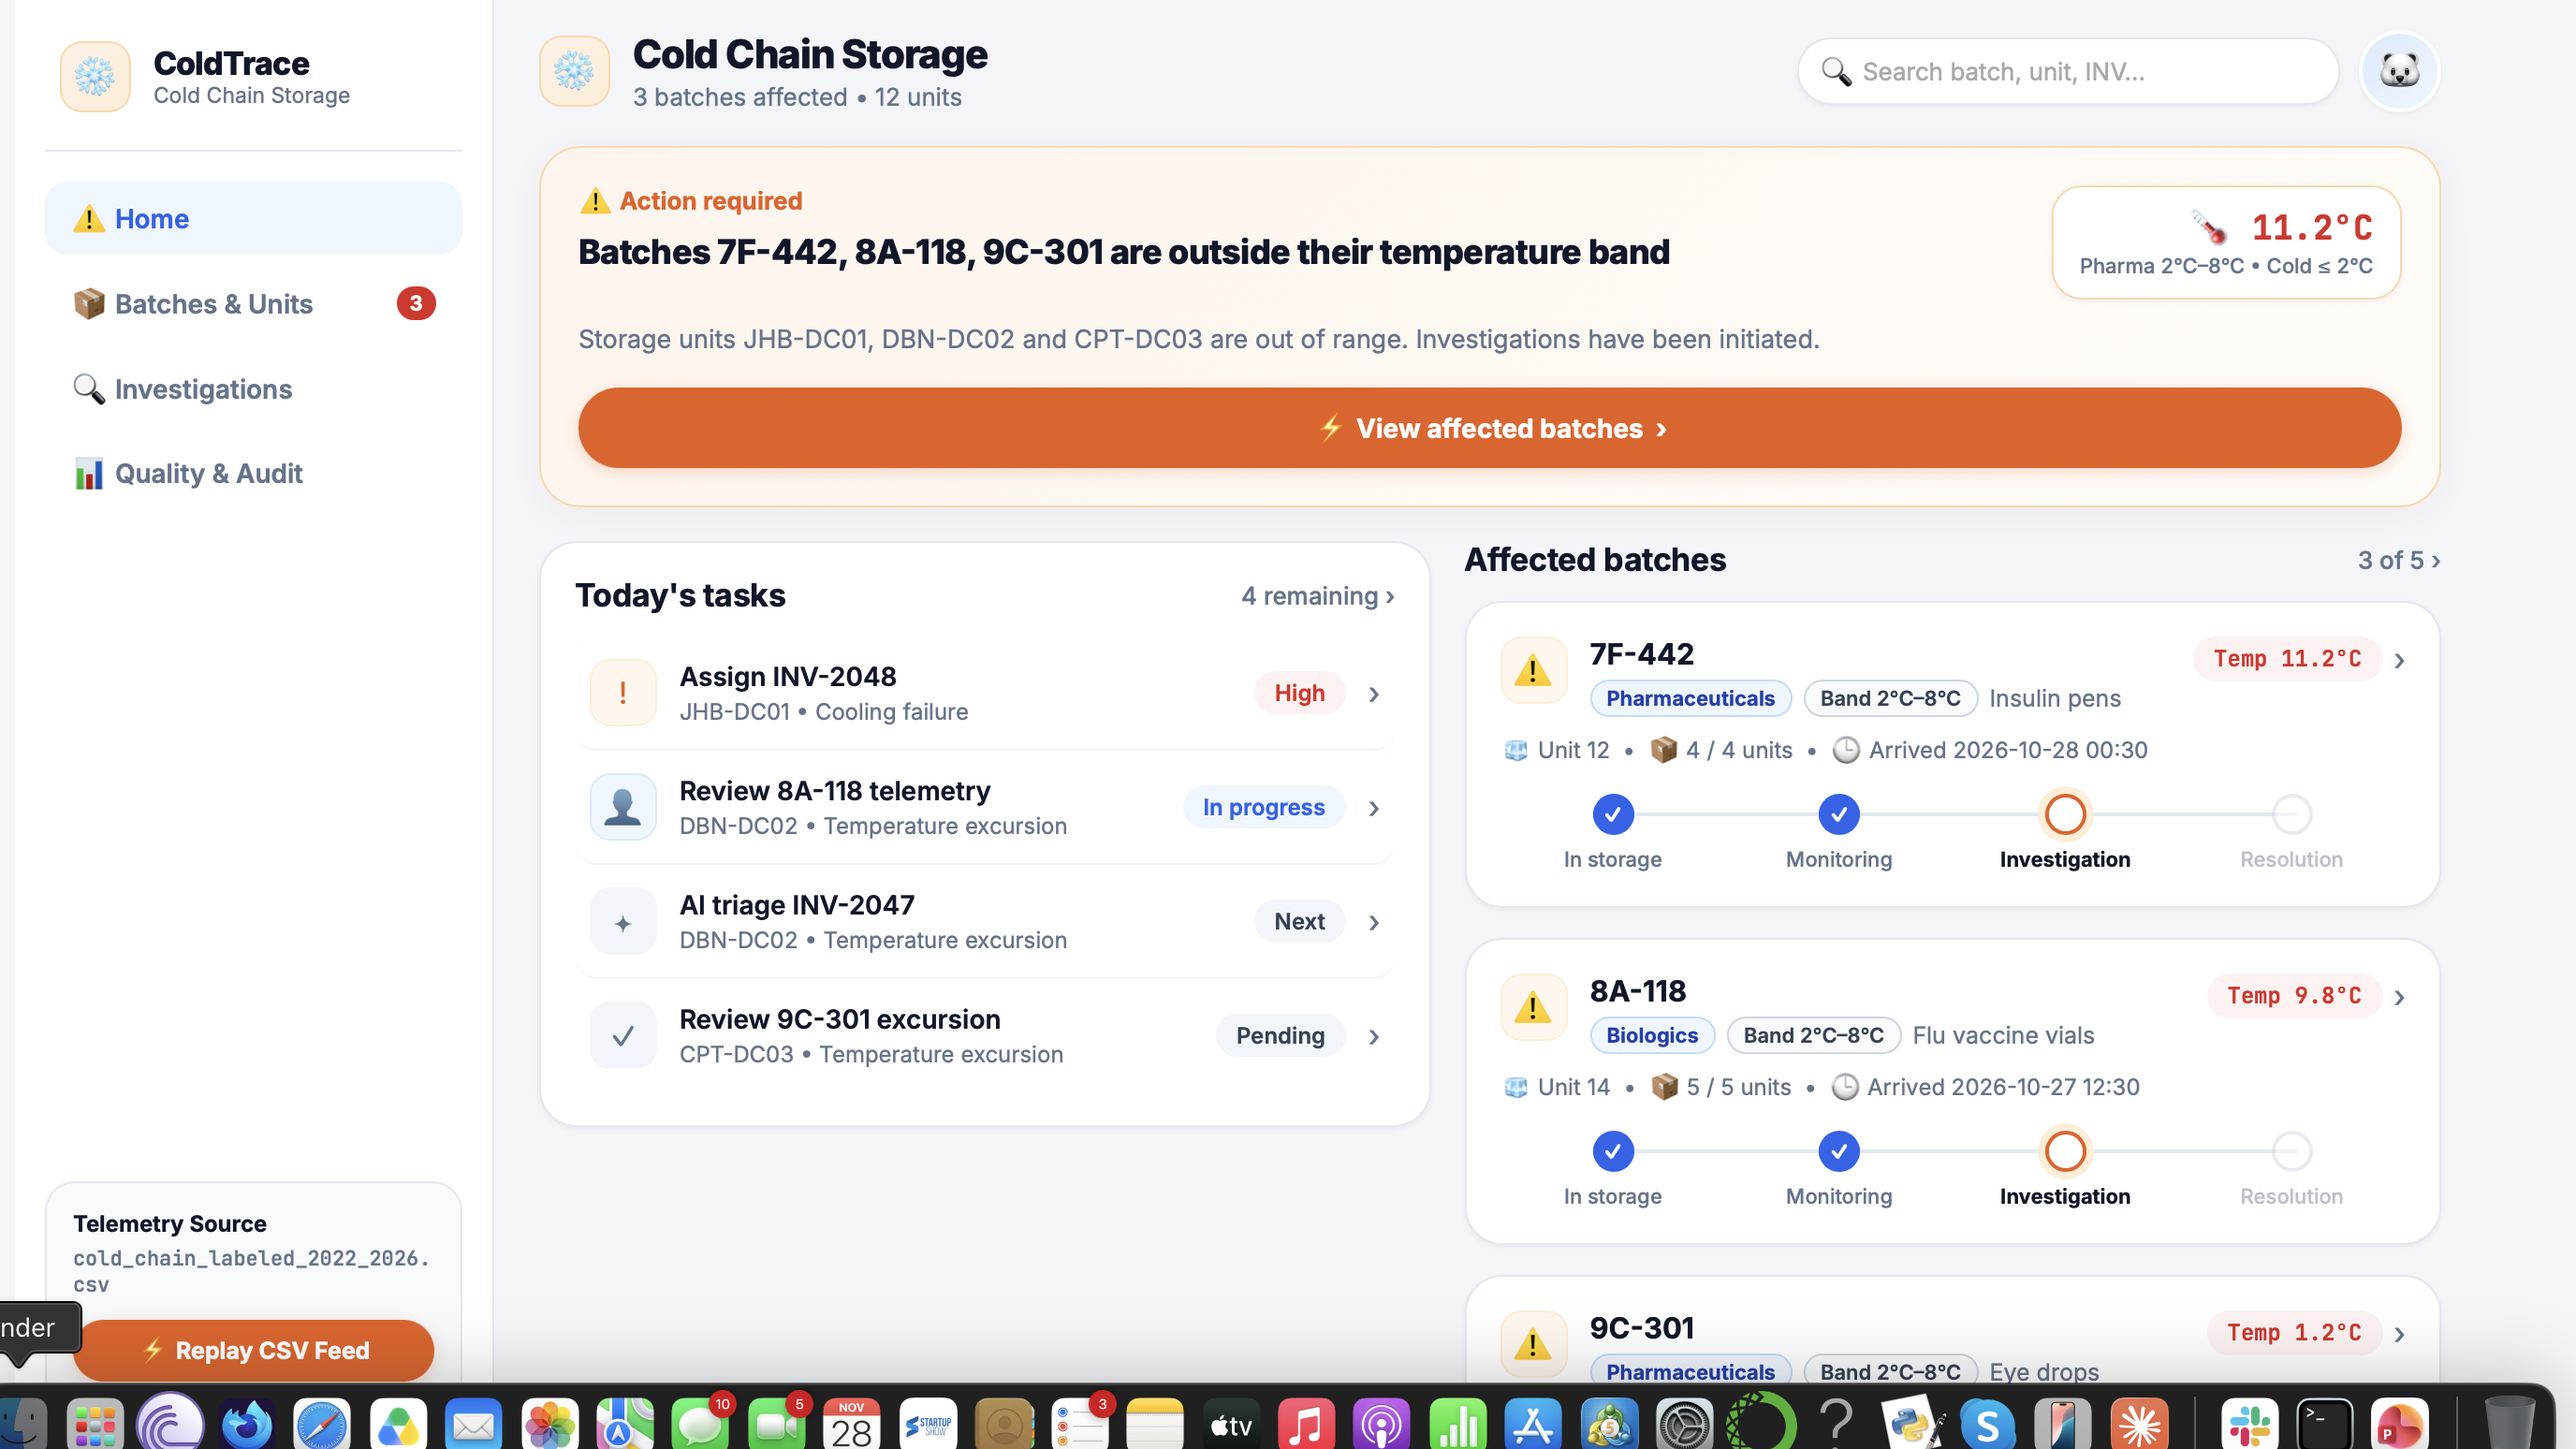
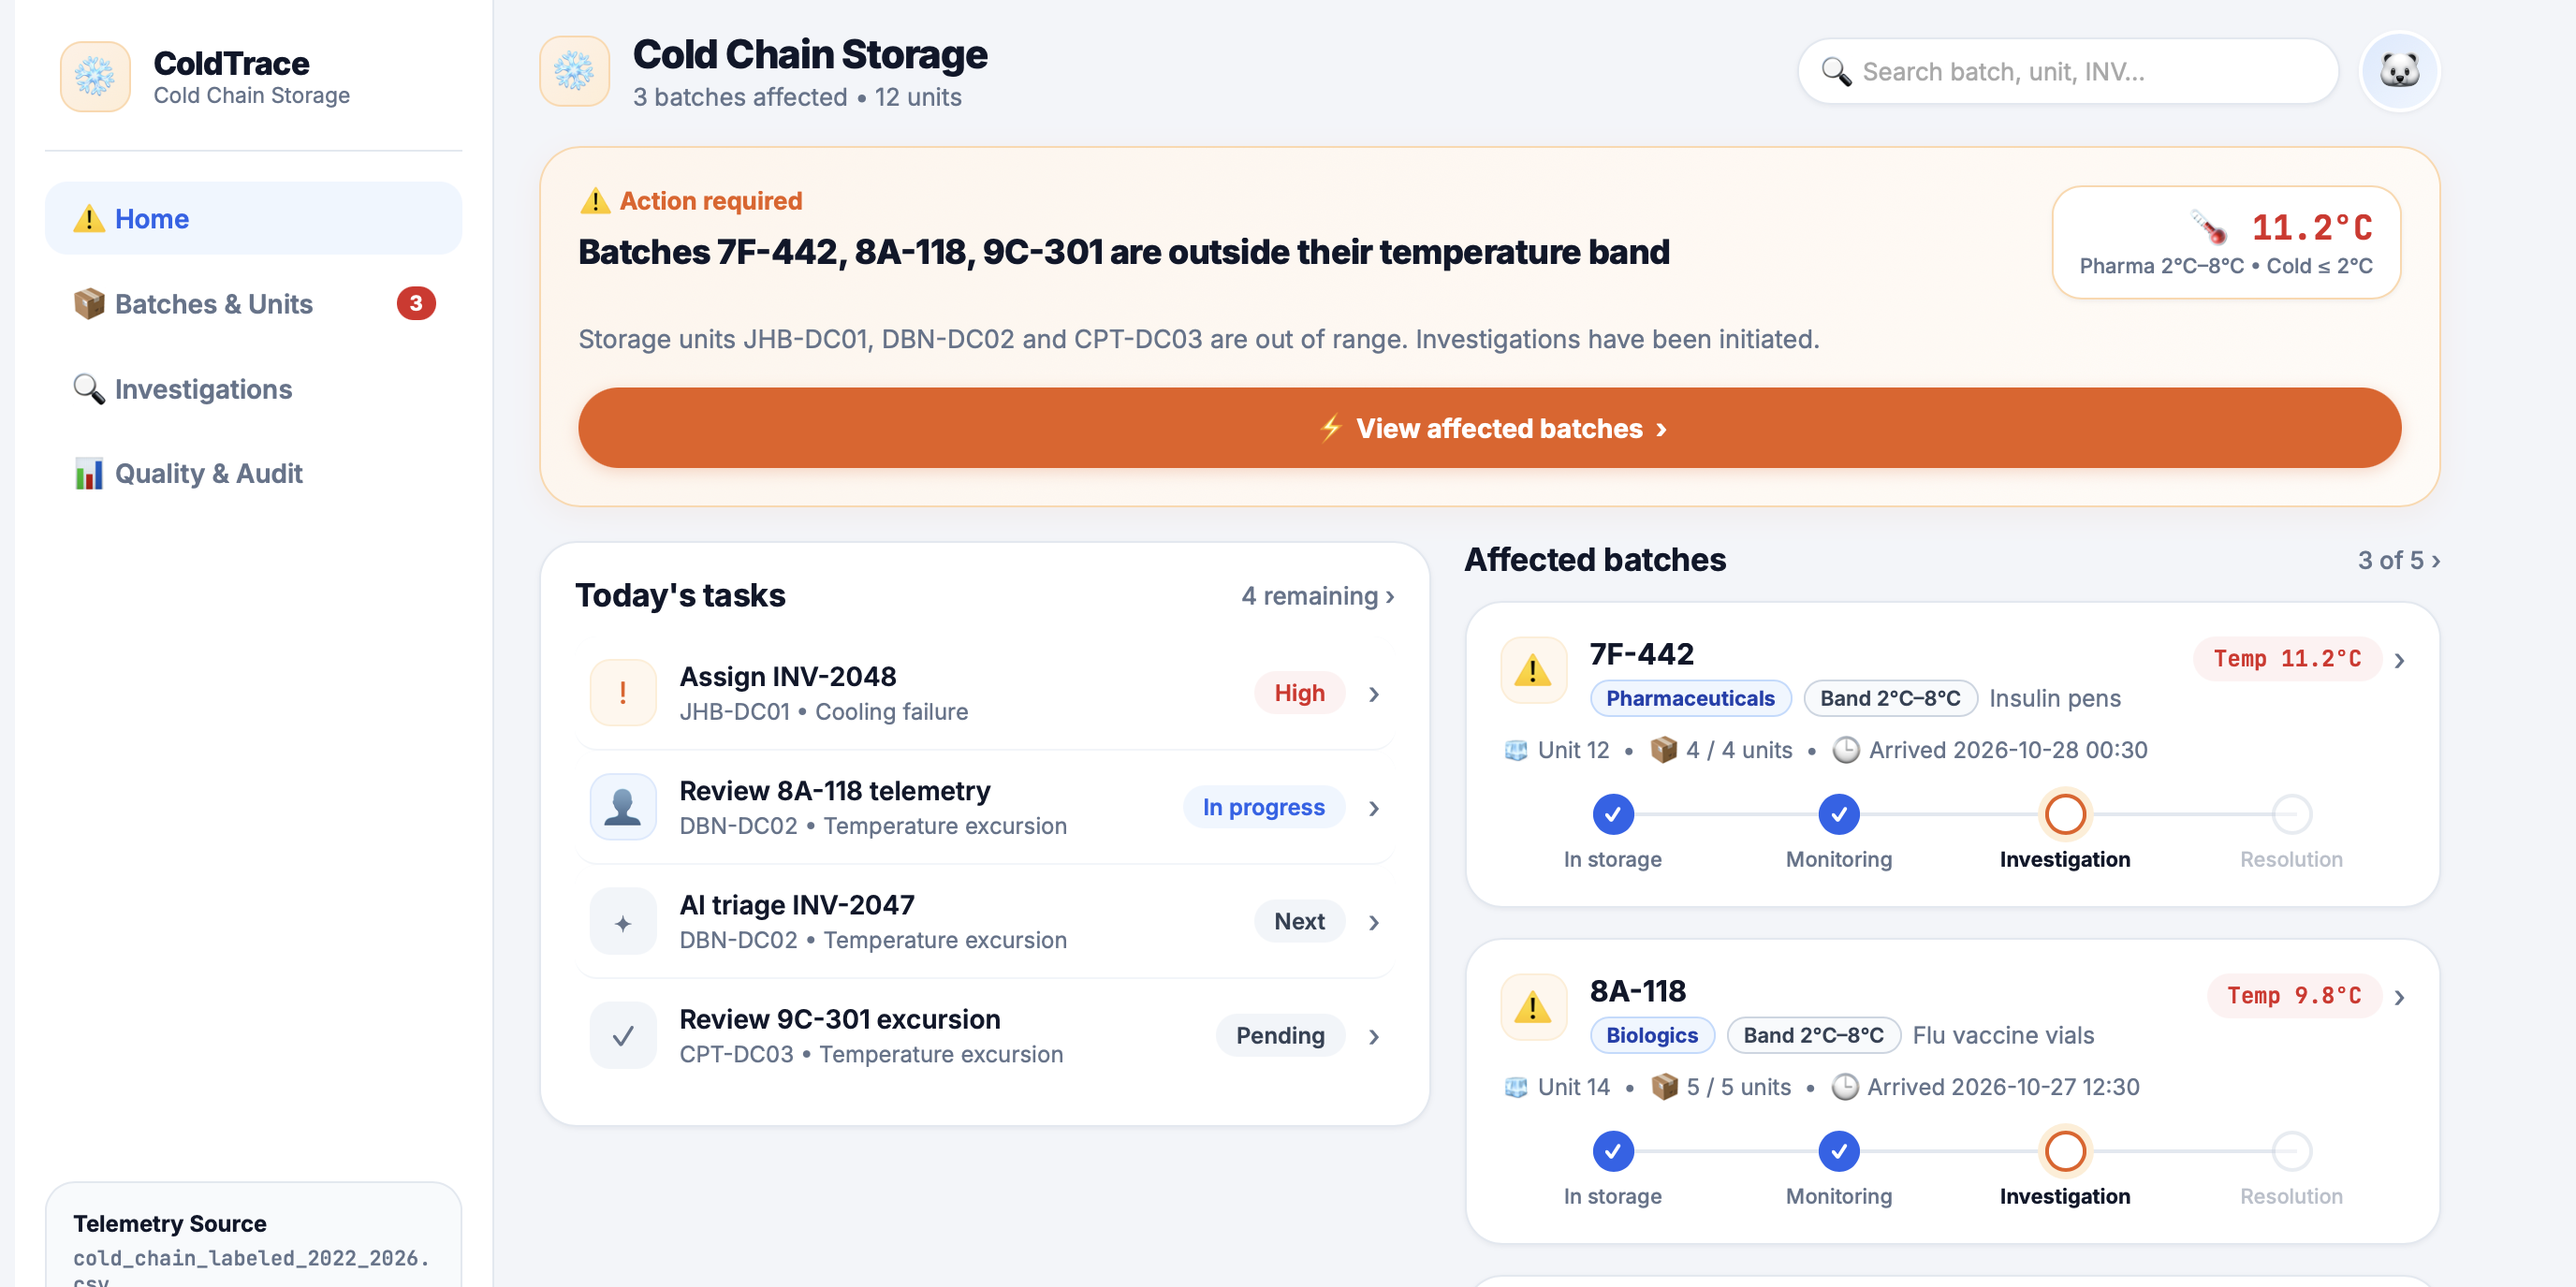
final: charts follow batch band, cropped screenshot, walkthrough link, security status, /health in Backend README

diff --git a/Backend/frontend/app.js b/Backend/frontend/app.js
@@ -130,7 +130,8 @@ const STAFF = [
         </div>`;
       }
 
-    function sparklineHTML(series, height = 82) {
+    function sparklineHTML(series, height = 82, category = 'pharma') {
+      const pharma = isPharmaCategory(category);
       const pts = (series && series.length > 1) ? series : [1.1, 1.3, 1.2, 1.5, 1.4, 2.8, 5.3];
       const w = 340, h = height, min = 0, max = 11;
       const yThresh = h - ((2.0 - min) / (max - min)) * h;
@@ -142,8 +143,9 @@ const STAFF = [
       });
       const poly = coords.map(c => `${c.x.toFixed(1)},${c.y.toFixed(1)}`).join(' ');
       const last = coords[coords.length - 1];
-      const stroke = (last.v > 8.0 || last.v < 2.0) ? '#DC2626' : '#2563EB';
-      const fill = (last.v > 8.0 || last.v < 2.0) ? 'rgba(220,38,38,0.08)' : 'rgba(37,99,235,0.08)';
+      const out = isTempOutOfRange(last.v, category);
+      const stroke = out ? '#DC2626' : '#2563EB';
+      const fill = out ? 'rgba(220,38,38,0.08)' : 'rgba(37,99,235,0.08)';
       const areaPts = `0,${h} ${poly} ${(w - 30)},${h}`;
       const dots = coords.map(c => `<circle cx="${c.x.toFixed(1)}" cy="${c.y.toFixed(1)}" r="2.6" fill="#FFFFFF" stroke="${stroke}" stroke-width="1.6"><title>${c.v.toFixed(1)} °C</title></circle>`).join('');
 
@@ -152,8 +154,8 @@ const STAFF = [
         <polygon fill="${fill}" points="${areaPts}" />
         <line x1="0" y1="${yThresh}" x2="${w - 28}" y2="${yThresh}" stroke="#94A3B8" stroke-dasharray="3,3" stroke-width="1.2" />
         <text x="${w - 24}" y="${yThresh + 3}" font-size="9.5" font-weight="600" fill="#64748B">2°C</text>
-        <line x1="0" y1="${yHighThresh}" x2="${w - 28}" y2="${yHighThresh}" stroke="#DC2626" stroke-dasharray="3,3" stroke-width="1.2" />
-        <text x="${w - 24}" y="${yHighThresh + 3}" font-size="9.5" font-weight="600" fill="#DC2626">8°C</text>
+        ${pharma ? `<line x1="0" y1="${yHighThresh}" x2="${w - 28}" y2="${yHighThresh}" stroke="#DC2626" stroke-dasharray="3,3" stroke-width="1.2" />
+        <text x="${w - 24}" y="${yHighThresh + 3}" font-size="9.5" font-weight="600" fill="#DC2626">8°C</text>` : ''}
         <polyline fill="none" stroke="${stroke}" stroke-width="2.2" stroke-linecap="round" stroke-linejoin="round" points="${poly}" />
         ${dots}
         <circle cx="${last.x.toFixed(1)}" cy="${last.y.toFixed(1)}" r="4" fill="${stroke}" />
@@ -535,7 +537,7 @@ function renderBatches() {
             🧊 ${b.unitName} &nbsp;•&nbsp; 📦 ${b.units} / ${b.units} units &nbsp;•&nbsp; 🕒 Arrived ${b.arrived}
           </div>
           ${b.status === 'In range' ? `<div style="margin-top:12px; display:grid; grid-template-columns:1.3fr 1fr; gap:12px; align-items:center;">
-            <div>${sparklineHTML(b.series, 46)}</div>
+            <div>${sparklineHTML(b.series, 46, b.category)}</div>
             <div style="background:var(--surface-soft); border:1px solid var(--border); padding:10px; border-radius:12px; font-size:11.5px;">
               <strong>🚚 ${b.shipmentId}</strong>
               <div><span class="badge progress" style="display:inline-block;margin:4px 0;">In storage</span></div>
@@ -567,7 +569,7 @@ function renderBatches() {
             <div><div style="font-size:11.5px;color:var(--muted);">Peak</div><div class="mono" style="font-size:21px;font-weight:800;">${b.peak.toFixed(1)}°C</div></div>
             <div><div style="font-size:11.5px;color:var(--muted);">Out-of-band</div><div class="mono" style="font-size:21px;font-weight:800;">${b.aboveHours}h</div></div>
           </div>
-          ${sparklineHTML(b.series, 92)}
+          ${sparklineHTML(b.series, 92, b.category)}
           <div style="font-size:11.5px; color:var(--muted); margin-top:8px;">30-minute telemetry cadence from sensor ${b.sensorId}.</div>
         </div>
         <div class="home-grid">

diff --git a/Backend/frontend/index.html b/Backend/frontend/index.html
@@ -535,6 +535,6 @@
     </div>
   </div>
 
-  <script src="/static/app.js?v=20261128c"></script>
+  <script src="/static/app.js?v=20261128d"></script>
 </body>
 </html>

diff --git a/README.md b/README.md
@@ -14,6 +14,7 @@
 - **Live Console:** <https://coldtrace-app-644777661209.us-central1.run.app>
 - **3-Page Brief:** [PROJECT_DOCS/ColdTrace_Brief.pdf](PROJECT_DOCS/ColdTrace_Brief.pdf)
 - **Research & Evaluation Summary:** [PROJECT_DOCS/RESEARCH_SUMMARY.md](PROJECT_DOCS/RESEARCH_SUMMARY.md)
+- **Silent app walkthrough (83 s) & screenshots:** [PROJECT_DOCS/Screenshots and walkthrough/](<PROJECT_DOCS/Screenshots and walkthrough/>)
 - **Presentation Deck (8 slides):** [PROJECT_DOCS/ColdTrace — Cold-Chain Operations Console (1).pptx](<PROJECT_DOCS/ColdTrace — Cold-Chain Operations Console (1).pptx>)
 - **Recorded Walkthrough (≤ 5 min):** [Watch on Google Drive](https://drive.google.com/file/d/1iflIPeFDiDTi-kW6cpJSzHZdk1qhVrG0/view?usp=sharing)
 - **Implementation Plan, Owners & Risks:** [PROJECT_DOCS/IMPLEMENTATION_PLAN.md](PROJECT_DOCS/IMPLEMENTATION_PLAN.md) · **Security:** [SECURITY.md](SECURITY.md)
@@ -187,7 +188,8 @@ coldtrace/
 │   ├── RESEARCH_SUMMARY.md                                # Research & evaluation summary
 │   ├── IMPLEMENTATION_PLAN.md                             # Timeline, owners, progress, risk register
 │   ├── USER_RESEARCH.md                                   # Interview guide & evidence log
-│   └── ColdTrace — Cold-Chain Operations Console (1).pptx # 8-slide presentation deck
+│   ├── ColdTrace — Cold-Chain Operations Console (1).pptx # 8-slide presentation deck
+│   └── Screenshots and walkthrough/                       # 83 s silent walkthrough + console screenshots
 ├── SECURITY.md                                            # Endpoint access, audit chain, secrets
 ├── tools/ctpush                                           # Team git CLI (check, commit, push, PR)
 ├── Validation_coldtrace.sql · bq_load_coldtrace.sh        # BigQuery load & validation queries

diff --git a/Backend/README.md b/Backend/README.md
@@ -13,7 +13,7 @@ Owner: Muedi (AI research foundations: baselines and evaluation). Status: Week 2
 | `coldtrace/evaluate.py` | Event-level recall, time-to-detect, false alerts per location-day |
 | `coldtrace/service.py` | Per-location streaming detector, debounced alerts, sha256-sealed evidence |
 | `coldtrace/nim.py` | NVIDIA NIM client (`requests`, retries, JSON validation) + classify/explain prompts |
-| `coldtrace/api.py` | FastAPI for Cloud Run: `/ingest`, `/alerts/{id}/explain`, `/healthz` |
+| `coldtrace/api.py` | FastAPI for Cloud Run: `/ingest`, `/alerts/{id}/explain`, `/health` |
 | `scripts/train_eval.py` | Train + score threshold-only vs rules vs RF; writes `artifacts/metrics.json` |
 | `scripts/replay.py` | Replays sample readings through the detector (`--local`) or a running API; prints every alert |
 | `scripts/compare_nim.py` | Scores NIM models against the same labeled windows as the baselines |

diff --git a/SECURITY.md b/SECURITY.md
@@ -1,6 +1,6 @@
 # ColdTrace security notes — evidence and endpoints
 
-Owner: Peter Opiyo (Cloud Cybersecurity lane). Review status: **draft — review and sign below before merge.**
+Owner: Peter Opiyo (Cloud Cybersecurity lane). Review status: **draft prepared by the team; Peter Opiyo's security sign-off is pending.**
 
 ## 1. What must stay true
 
